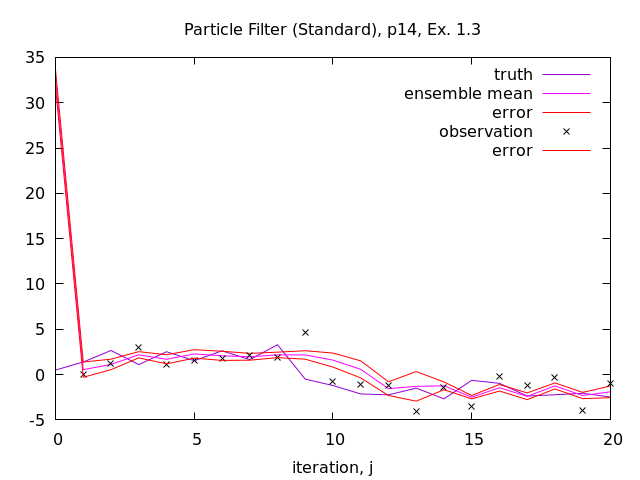
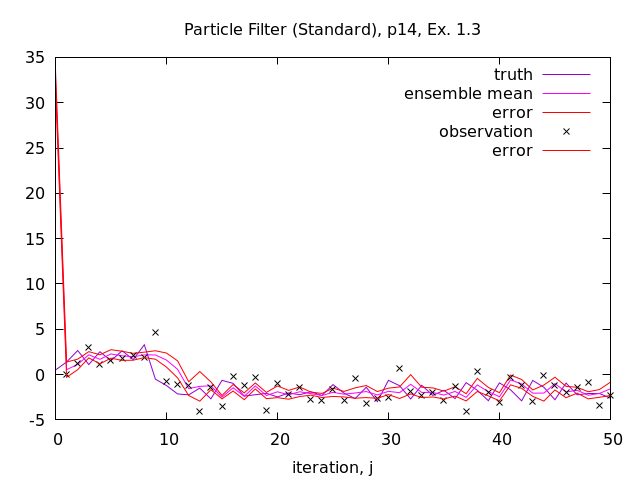
Refactor, use eigen decomp in SIRS std, and update graphs.

diff --git a/na-discrete-filtering/src/kalman/sirs/std.rs b/na-discrete-filtering/src/kalman/sirs/std.rs
@@ -2,8 +2,10 @@
 use nd::{Array, ArrayBase, ArrayView, ArrayViewMut, Ix2, Ix1,
          Axis};
 use linxal::types::{LinxalScalar};
+use linxal::eigenvalues::Eigen;
 use linxal::solve_linear::general::SolveLinear;
 use num_traits::{NumCast, One, Zero, Float};
+use num_complex::Complex;
 use rand::Rng;
 use rand::distributions::IndependentSample;
 use rand::distributions::normal::Normal;
@@ -12,7 +14,7 @@ use std::ops::{Add, Sub, Mul, Div,
                DivAssign, MulAssign,};
 
 use {Algorithm};
-use utils::{CholeskyLDL, Sqrt, Exp};
+use utils::{Sqrt, Exp, SolutionHelper};
 use rayon::prelude::*;
 use nd_par::prelude::*;
 
@@ -42,7 +44,8 @@ pub struct Workspace<E>
 }
 
 impl<'a, E> ::Workspace<Init<'a, E>> for Workspace<E>
-  where E: LinxalScalar + CholeskyLDL + From<f64> + NumCast + SolveLinear,
+  where E: LinxalScalar + From<f64> + NumCast + SolveLinear + Eigen,
+        <E as Eigen>::Solution: SolutionHelper<E, Complex<<E as LinxalScalar>::RealPart>>,
         E: Send + Sync,
         E: Add<E, Output = E> + Sub<E, Output = E>,
         E: AddAssign<E> + SubAssign<E>,
@@ -53,8 +56,6 @@ impl<'a, E> ::Workspace<Init<'a, E>> for Workspace<E>
         E: MulAssign<<E as LinxalScalar>::RealPart> + DivAssign<<E as LinxalScalar>::RealPart>,
 {
   fn alloc(i: Init<'a, E>, mut rand: &mut Rng, _: u64) -> Workspace<E> {
-    use linxal::types::Symmetric;
-
     let Init {
       initial_mean,
       initial_covariance,
@@ -75,14 +76,10 @@ impl<'a, E> ::Workspace<Init<'a, E>> for Workspace<E>
 
     let mut ensembles = ArrayBase::zeros((ensemble_count, n));
 
-    let (_, d) = CholeskyLDL::compute(&initial_covariance,
-                                      Symmetric::Lower)
-      .expect("cholesky factorization failed");
-
-    let d: Vec<E> = d.into_raw_vec();
-    let scale: E = d.into_iter()
-      .filter(|v| !v.is_zero() )
-      .fold(E::one(), |p, v| p * v.mag() );
+    let sol = Eigen::compute_into(initial_covariance.to_owned(),
+                                  false, false)
+      .expect("can't eigendecomp initial_covariance");
+    let d = sol.values().map(|v| v.re.sqrt() );
 
     {
       let mut first = ensembles.view_mut();
@@ -91,14 +88,14 @@ impl<'a, E> ::Workspace<Init<'a, E>> for Workspace<E>
         for i in 0..ensemble_count {
           for j in 0..n {
             r[[i,j]] = From::from(normal.ind_sample(&mut rand));
+            r[[i,j]] *= d[j];
           }
         }
 
         r
       };
-      first.assign(&initial_mean.broadcast((ensemble_count,
-                                            n)).unwrap());
-      first.scaled_add(scale, &r);
+      first.assign(&initial_mean.broadcast((ensemble_count, n)).unwrap());
+      first.scaled_add(One::one(), &r);
     }
 
     let ec_e: E = NumCast::from(ensemble_count).unwrap();
@@ -168,7 +165,8 @@ impl<'init, 'state, E, M, Ob>
 Algorithm<M, Ob> for Algo<'init, E>
   where M: ::Model<E>,
         Ob: ::Observer<E> + Send + Sync,
-        E: LinxalScalar + CholeskyLDL + From<f64> + PartialOrd,
+        E: LinxalScalar + From<f64> + PartialOrd + Eigen,
+        <E as Eigen>::Solution: SolutionHelper<E, Complex<<E as LinxalScalar>::RealPart>>,
         ::rayon::par_iter::reduce::SumOp: ::rayon::par_iter::reduce::ReduceOp<E>,
         E: NumCast + SolveLinear + Exp + Sqrt + ::rand::Rand,
         E: Send + Sync,

diff --git a/na-discrete-filtering/src/kalman/etkf.rs b/na-discrete-filtering/src/kalman/etkf.rs
@@ -7,7 +7,6 @@ use linxal::types::{LinxalScalar};
 use linxal::solve_linear::general::SolveLinear;
 use linxal::solve_linear::symmetric::SymmetricSolveLinear;
 use linxal::eigenvalues::general::Eigen;
-use linxal::eigenvalues::types::Solution;
 use num_traits::{NumCast, One, Zero, Float};
 use num_complex::Complex;
 use rand::Rng;
@@ -18,7 +17,7 @@ use std::ops::{Add, Sub, Mul, Div,
                DivAssign, MulAssign,};
 
 use {Algorithm, Workspace};
-use utils::CholeskyLDL;
+use utils::{SolutionHelper};
 use rayon::prelude::*;
 use nd_par::prelude::*;
 
@@ -72,8 +71,6 @@ impl<'a, E> Workspace<Init<'a, E>> for OwnedWorkspace<E>
         E: MulAssign<<E as LinxalScalar>::RealPart> + DivAssign<<E as LinxalScalar>::RealPart>,
 {
   fn alloc(i: Init<'a, E>, mut rand: &mut Rng, _: u64) -> OwnedWorkspace<E> {
-    use linxal::types::Symmetric;
-
     let Init {
       initial_mean,
       initial_covariance,
@@ -97,16 +94,16 @@ impl<'a, E> Workspace<Init<'a, E>> for OwnedWorkspace<E>
     let sol = Eigen::compute_into(initial_covariance.to_owned(),
                                   false, false)
       .expect("can't eigendecomp initial_covariance");
-    let d = sol.values();
+    let d = sol.values().map(|v| v.re.sqrt() );
 
     {
       let mut first = ensembles.view_mut();
-      let mut r = {
+      let r = {
         let mut r: Array<E, Ix2> = ArrayBase::zeros((ensemble_count, n));
         for i in 0..ensemble_count {
           for j in 0..n {
             r[[i,j]] = From::from(normal.ind_sample(&mut rand));
-            r[[i,j]] *= d[j].re;
+            r[[i,j]] *= d[j];
           }
         }
 
@@ -185,29 +182,10 @@ pub struct Algo<'a, E>
   observation_operator: ArrayView<'a, E, Ix2>,
 }
 
-pub trait SolutionHelper<EV, IV> {
-  fn values(self) -> Array<IV, Ix1>;
-  fn values_and_left_vectors(&mut self) -> (ArrayViewMut<IV, Ix1>, ArrayView<EV, Ix2>);
-}
-
-impl<T> SolutionHelper<T, Complex<<T as LinxalScalar>::RealPart>> for Solution<T, Complex<<T as LinxalScalar>::RealPart>>
-  where T: Float + LinxalScalar,
-{
-  fn values(self) -> Array<Complex<<T as LinxalScalar>::RealPart>, Ix1> {
-    let Solution {
-      values, ..
-    } = self;
-    values
-  }
-  fn values_and_left_vectors(&mut self) -> (ArrayViewMut<Complex<<T as LinxalScalar>::RealPart>, Ix1>, ArrayView<T, Ix2>) {
-    (self.values.view_mut(), self.left_vectors.as_ref().unwrap().view())
-  }
-}
-
 impl<'init, 'state, E, M, Ob> Algorithm<M, Ob> for Algo<'init, E>
   where M: ::Model<E>,
         Ob: ::Observer<E>,
-        E: LinxalScalar + CholeskyLDL + From<f64> + NumCast + SolveLinear + SymmetricSolveLinear + Send + Sync + Eigen + Float,
+        E: LinxalScalar + From<f64> + NumCast + SolveLinear + SymmetricSolveLinear + Send + Sync + Eigen + Float,
         <E as Eigen>::Solution: SolutionHelper<E, Complex<<E as LinxalScalar>::RealPart>>,
         ::rayon::par_iter::reduce::SumOp: ::rayon::par_iter::reduce::ReduceOp<E>,
         <E as LinxalScalar>::RealPart: Send + Sync,
@@ -347,7 +325,7 @@ impl<'init, 'state, E, M, Ob> Algorithm<M, Ob> for Algo<'init, E>
           if v.re < Zero::zero() {
             Zero::zero()
           } else {
-            v.re
+            v.re.sqrt()
           }
         });
         t.fill(Zero::zero());

diff --git a/na-discrete-filtering/src/utils.rs b/na-discrete-filtering/src/utils.rs
@@ -1,8 +1,11 @@
 
-use nd::{ArrayBase, Ix1, Ix2, Array, Data, DataMut, ViewRepr};
+use nd::{ArrayBase, Ix1, Ix2, Array, Data, DataMut, ViewRepr, ArrayView, ArrayViewMut};
 use linxal::factorization::cholesky::*;
+use linxal::eigenvalues::Solution;
 use linxal::types::Symmetric;
-use linxal::types::{c32, c64};
+use linxal::types::{LinxalScalar, c32, c64};
+use num_complex::Complex;
+use num_traits::Float;
 
 pub trait CholeskyLDL: Cholesky + Sized {
   fn compute<D1: Data>(a: &ArrayBase<D1, Ix2>, uplo: Symmetric)
@@ -105,4 +108,23 @@ impl Exp for f32 {
 }
 impl Exp for f64 {
   fn _exp(&self) -> f64 { self.exp() }
+}
+
+pub trait SolutionHelper<EV, IV> {
+  fn values(self) -> Array<IV, Ix1>;
+  fn values_and_left_vectors(&mut self) -> (ArrayViewMut<IV, Ix1>, ArrayView<EV, Ix2>);
+}
+
+impl<T> SolutionHelper<T, Complex<<T as LinxalScalar>::RealPart>> for Solution<T, Complex<<T as LinxalScalar>::RealPart>>
+  where T: Float + LinxalScalar,
+{
+  fn values(self) -> Array<Complex<<T as LinxalScalar>::RealPart>, Ix1> {
+    let Solution {
+      values, ..
+    } = self;
+    values
+  }
+  fn values_and_left_vectors(&mut self) -> (ArrayViewMut<Complex<<T as LinxalScalar>::RealPart>, Ix1>, ArrayView<T, Ix2>) {
+    (self.values.view_mut(), self.left_vectors.as_ref().unwrap().view())
+  }
 }

diff --git a/book-problems/p14/src/main.rs b/book-problems/p14/src/main.rs
@@ -47,6 +47,6 @@ fn main() {
     states.store_state(i as usize + 1, &workspace);
   }
 
-  make_ensemble_plots(&data, &states, 21,
+  make_ensemble_plots(&data, &states, 51,
                       "Particle Filter (Standard)");
 }

diff --git a/book-problems/p15/src/main.rs b/book-problems/p15/src/main.rs
@@ -47,6 +47,6 @@ fn main() {
     states.store_state(i as usize + 1, &workspace);
   }
 
-  make_ensemble_plots(&data, &states, 21,
+  make_ensemble_plots(&data, &states, 51,
                       "Particle Filter (Standard)");
 }
